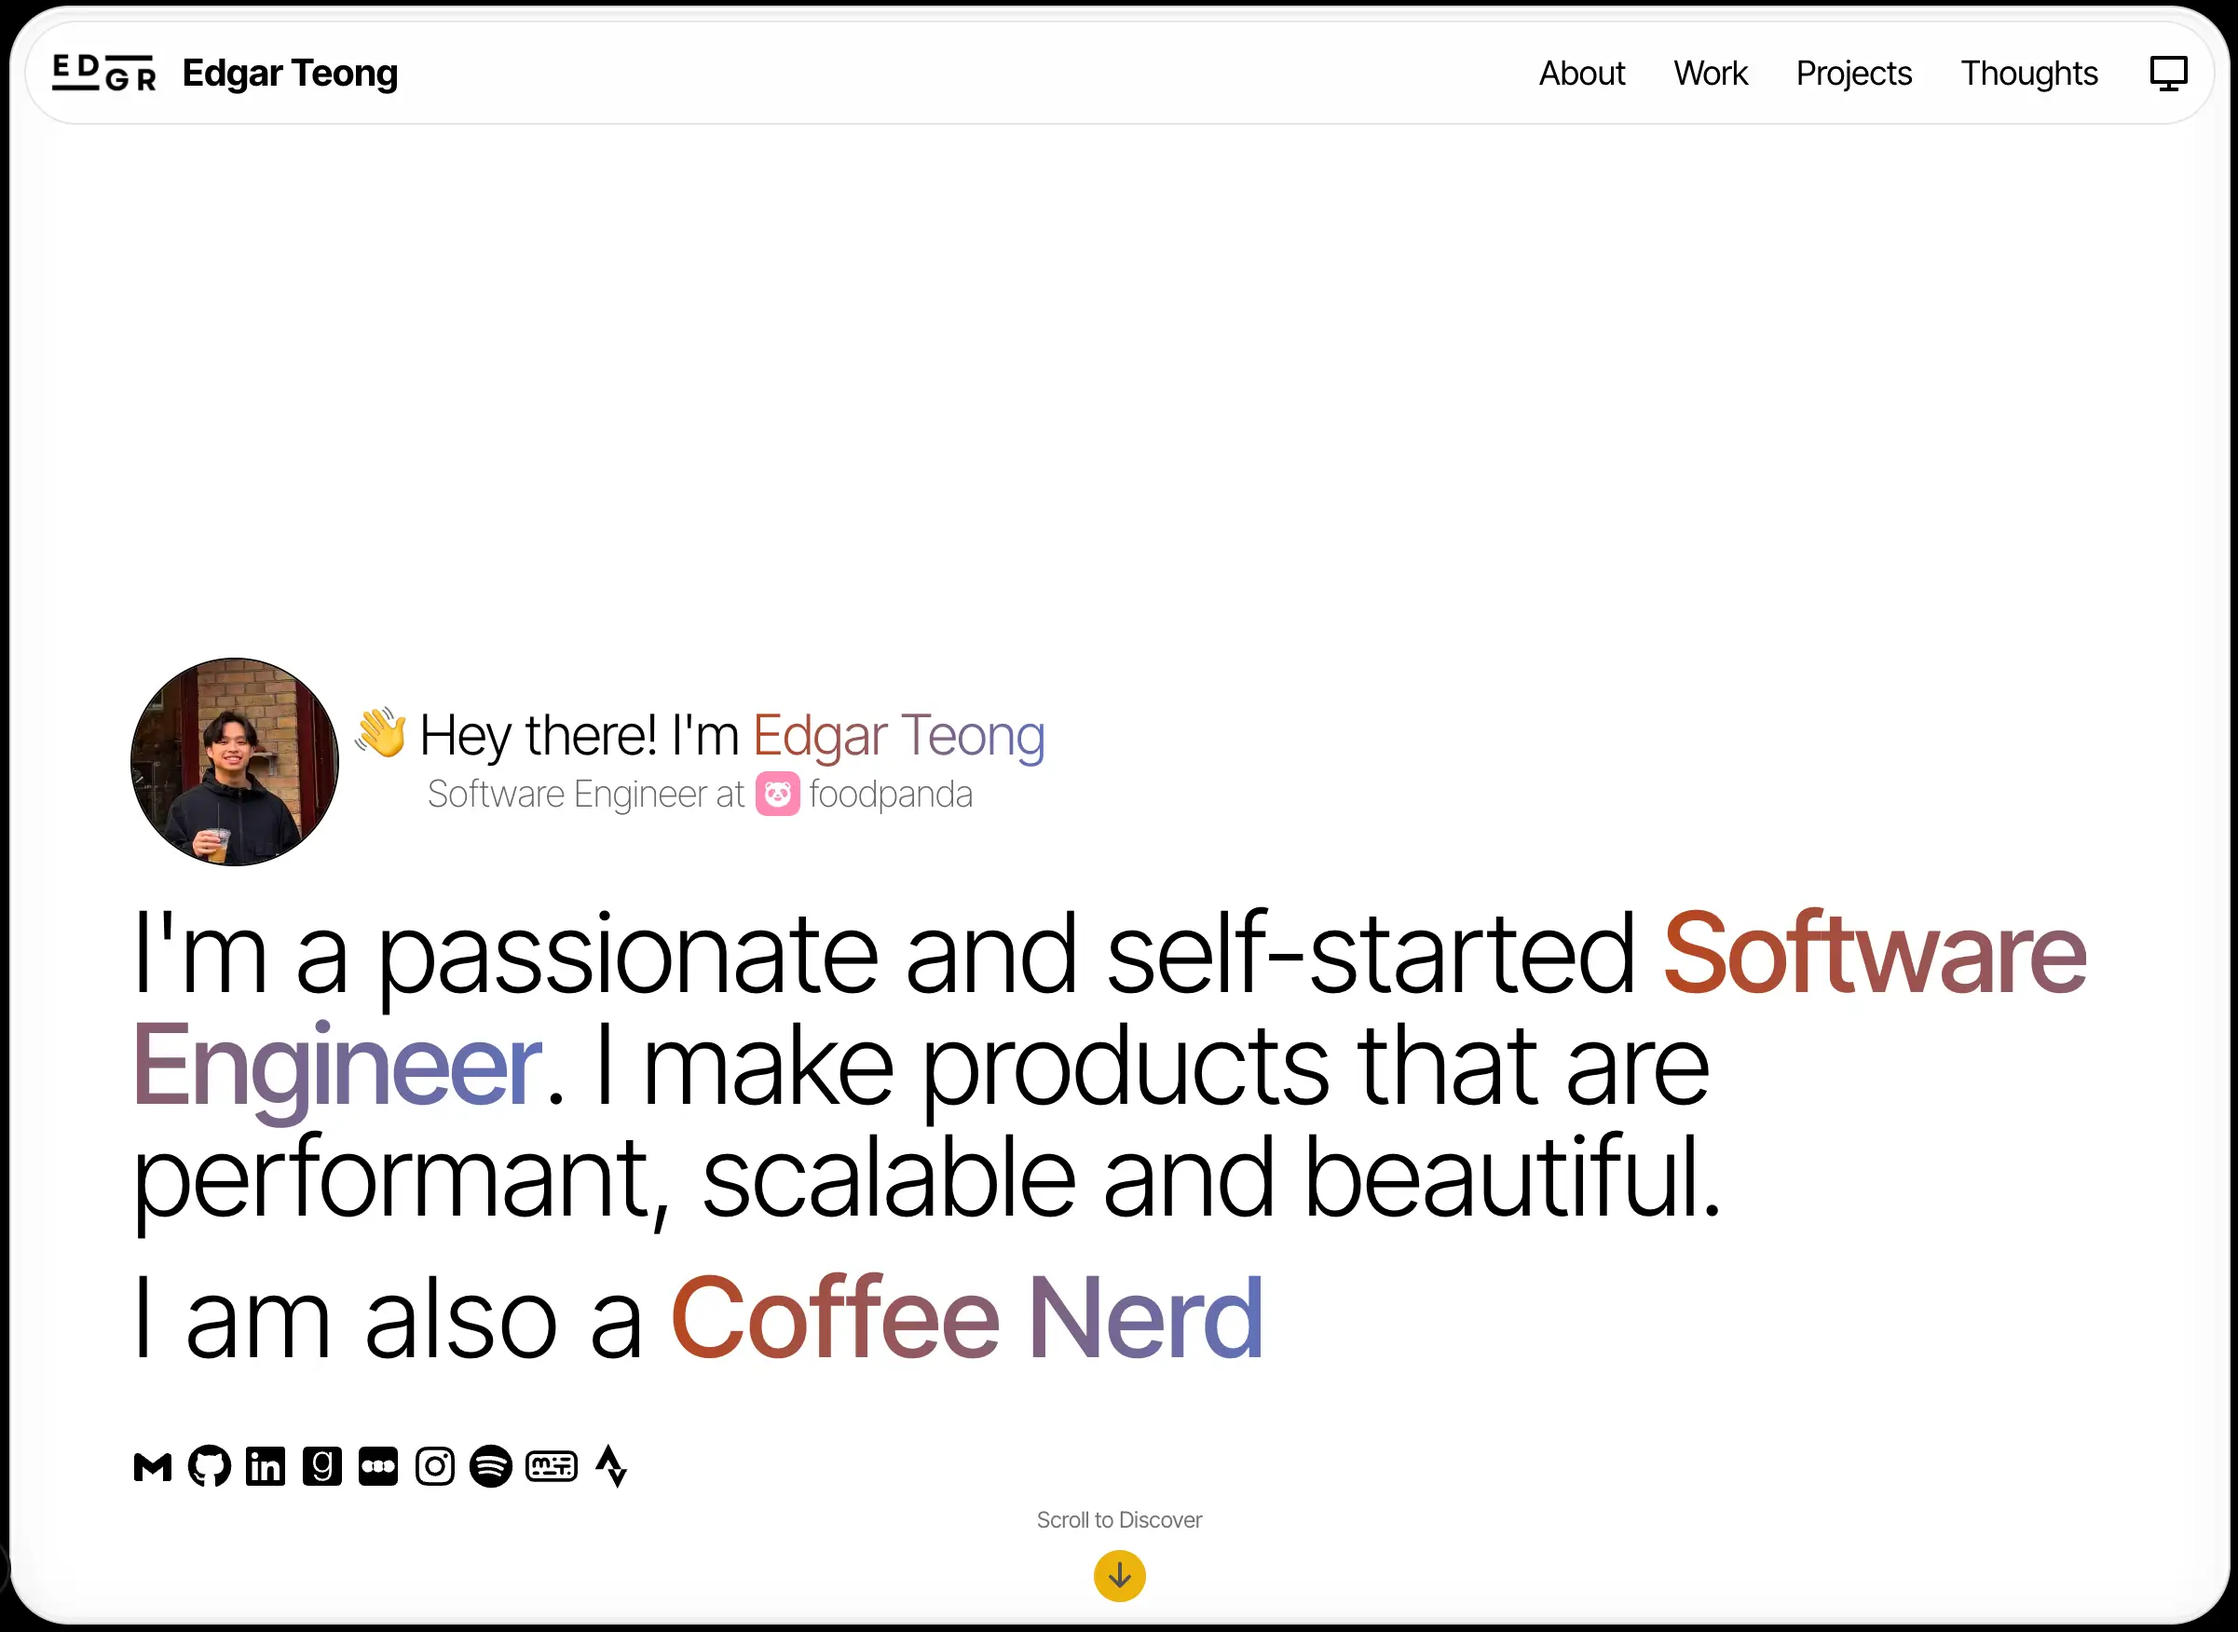
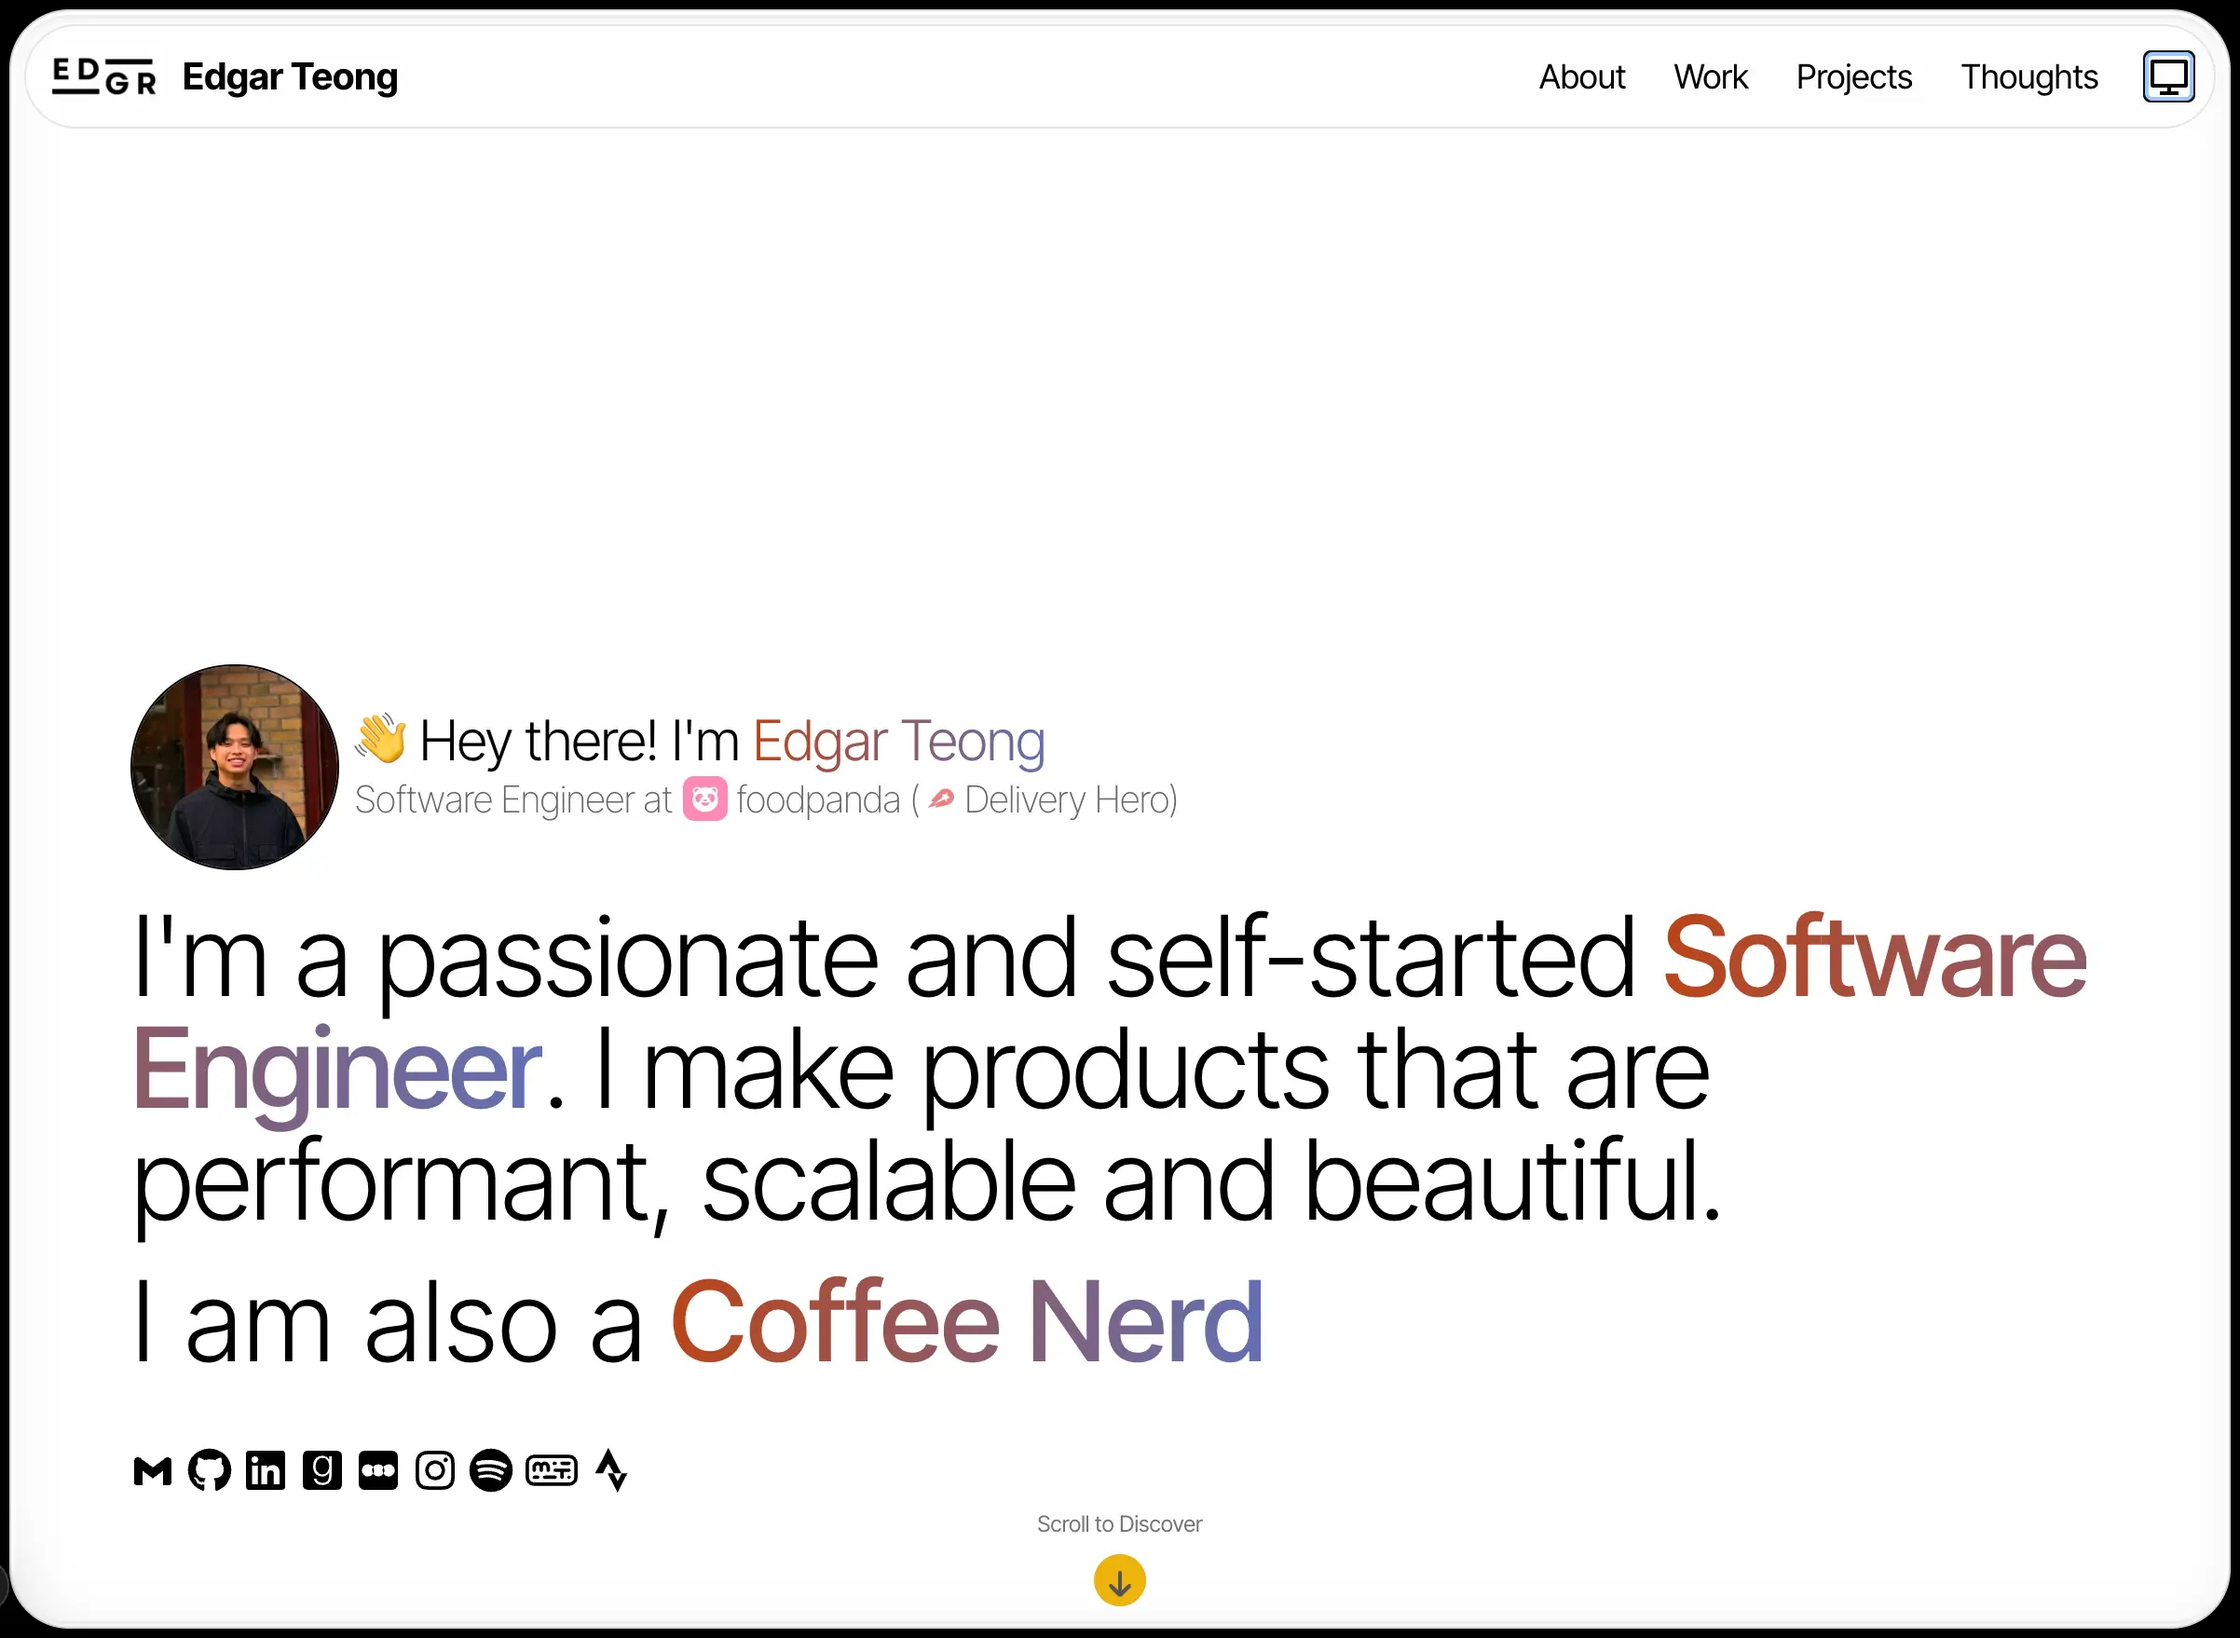
updated hero

diff --git a/app/components/Hero.tsx b/app/components/Hero.tsx
@@ -131,6 +131,19 @@ const Hero = () => {
                             />
                             foodpanda
                         </a>
+                        {" "}
+                        &#40;
+                            <a href="https://www.deliveryhero.com/" className="text-black">
+                            <Image
+                                src="/work-logos/dh-white.webp"
+                                width={2000}
+                                height={2000}
+                                alt="delivery hero logo"
+                                className="size-6 inline mb-1 rounded-md"
+                            />
+                            Delivery Hero
+                        </a>
+                        &#41;
                     </p>
                 </div>
             </div>
